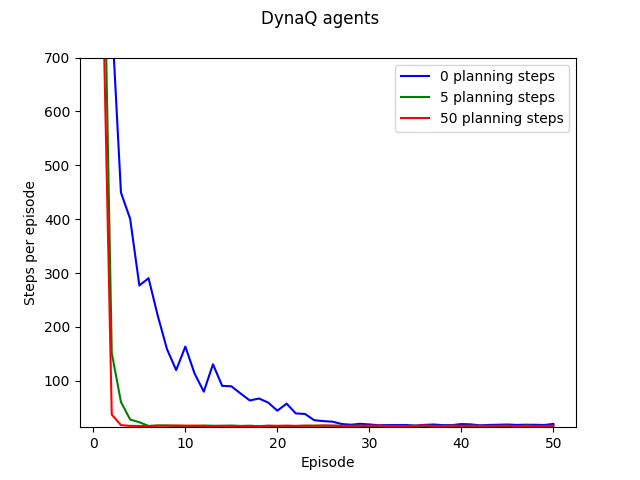
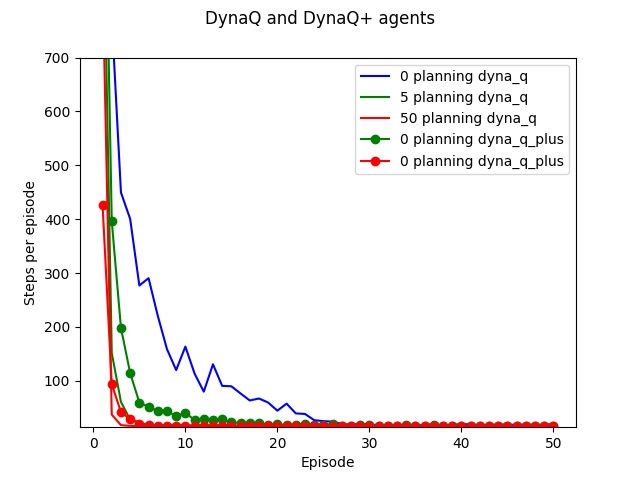
update codes

diff --git a/rl_sutton/chapter08/example8_1.py b/rl_sutton/chapter08/example8_1.py
@@ -1,0 +1,215 @@
+#! /usr/bin/env python3
+
+import numpy as np
+import matplotlib
+matplotlib.use('Agg')
+from matplotlib import pyplot as plt
+
+
+ACTIONS = {0: (1, 0), 1: (-1, 0), 2: (0, 1), 3: (0, -1)}
+
+
+class Environment:
+    def __init__(self, grid, block=1, start=2, goal=3):
+        self.grid = grid
+        self.block = block
+        self.start_pos, self.goal_pos = self.find_terminal(start, goal)
+
+    def get_grid_shape(self):
+        return self.grid.shape
+
+    def find_terminal(self, start, goal):
+        m, n = self.grid.shape
+        start_pos, goal_pos = None, None
+        for i in range(m):
+            for j in range(n):
+                if self.grid[i, j] == start:
+                    start_pos = (i, j)
+                elif self.grid[i, j] == goal:
+                    goal_pos = (i, j)
+        return (start_pos, goal_pos)
+
+    def is_non_state(self, x, y):
+        if self.grid[x, y] == self.block or (x, y) == self.start_pos or self.is_goal(x, y):
+            return True
+        return False
+
+    def is_goal(self, x, y):
+        if x == self.goal_pos[0] and y == self.goal_pos[1]:
+            return True
+        return False
+
+    def sample(self, x, y, a):
+        m, n = self.grid.shape
+        ax, ay = ACTIONS[a]
+        new_x, new_y = x+ax, y+ay
+        if new_x < 0 or new_y < 0 or new_x >= m or new_y >= n or self.grid[new_x, new_y] == self.block:
+            return (x, y, 0)
+        rwd = 1 if self.is_goal(new_x, new_y) else 0
+        return (new_x, new_y, rwd)
+
+
+class Agent:
+    def __init__(self, env):
+        self.env = env
+        self.num_of_actions = len(ACTIONS)
+        self.all_actions = list(range(self.num_of_actions))
+        self.policy = None
+        self.q_table = None
+        self.model = None
+
+    def hash(self, x, y, a):
+        m, n = self.env.get_grid_shape()
+        return n*x + y + m*n*a
+
+    def hash_to_id(self, h):
+        m, n = self.env.get_grid_shape()
+        a = h//(m*n)
+        newh = h%(m*n)
+        x, y = newh//n, newh%n
+        assert h == self.hash(x, y, a)
+        return (x, y, a)
+
+    def initialize_model(self):
+        model = {}
+        m, n = self.env.get_grid_shape()
+        for a in range(self.num_of_actions):
+            for i in range(m):
+                for j in range(n):
+                    if self.env.is_non_state(i, j):
+                        continue
+                    model[self.hash(i, j, a)] = (i, j, 0, 0)
+        return model
+
+    def reset(self, is_model_init=False):
+        m, n = self.env.get_grid_shape()
+        self.policy = np.zeros((m ,n)).astype(int)
+        self.q_table = np.zeros((self.num_of_actions, m, n))
+        self.model = self.initialize_model() if is_model_init else {}
+
+    def ep_greedy(self, x, y, ep):
+        if ep > np.random.rand():
+            return np.random.randint(self.num_of_actions)
+        return self.policy[x, y]
+
+    def update_policy(self, x, y):
+        greedy_a = self.policy[x, y]
+        greedy_q = self.q_table[greedy_a, x, y]
+        np.random.shuffle(self.all_actions)
+        for a in self.all_actions:
+            if self.q_table[a, x, y] >= greedy_q:
+                greedy_q = self.q_table[a, x, y]
+                greedy_a = a
+        self.policy[x, y] = greedy_a
+
+    def update_model(self, h, nx, ny, rwd, time_passed):
+        self.model[h] = (nx, ny, rwd, time_passed)
+
+    def dyna_q_planning(self, planning_steps, gama, alpha):
+        ids = list(self.model.keys())
+        for i in range(planning_steps):
+            h = ids[np.random.randint(len(ids))]
+            x, y, a = self.hash_to_id(h)
+            nx, ny, rwd, _ = self.model[h]
+            nqmax = self.q_table[self.policy[nx, ny], nx, ny]
+            self.q_table[a, x, y] += alpha*(rwd + gama*nqmax - self.q_table[a, x, y])
+            self.update_policy(x, y)
+
+    def dyna_q_plus_planning(self, planning_steps, time_passed, gama, alpha, k):
+        ids = list(self.model.keys())
+        for i in range(planning_steps):
+            h = ids[np.random.randint(len(ids))]
+            x, y, a = self.hash_to_id(h)
+            nx, ny, rwd, time = self.model[h]
+            nqmax = self.q_table[self.policy[nx, ny], nx, ny]
+            # in dyna_q+ exploratory reward is used
+            assert time_passed - time >= 0
+            exploration_rwd = rwd + k*np.sqrt(time_passed - time)
+            G = exploration_rwd + gama*nqmax
+            self.q_table[a, x, y] += alpha*(G - self.q_table[a, x, y])
+            self.update_policy(x, y)    
+
+    # gama < 1 is required to make sure that agent finds shortest path, if gama = 1 there is no insentive for
+    # the agent to find shortest path
+    def planning_learning(self, planning_steps, episodes, gama, alpha, ep, k=0.1, is_dyna_q_plus=False):
+        len_of_episode = []
+        time_passed = 0
+        for e in range(1, episodes+1):
+            episode_time = 0
+            cx, cy = self.env.start_pos
+            while not self.env.is_goal(cx, cy):
+                episode_time += 1; time_passed += 1
+                ca = self.ep_greedy(cx, cy, ep)
+                nx, ny, rwd = self.env.sample(cx, cy, ca)
+                nqmax = self.q_table[self.policy[nx, ny], nx, ny]
+                self.q_table[ca, cx, cy] += alpha*(rwd + gama*nqmax - self.q_table[ca, cx, cy])
+                self.update_policy(cx, cy)
+                self.update_model(self.hash(cx, cy, ca), nx, ny, rwd, time_passed)
+                cx, cy = nx, ny
+                # planning step
+                if is_dyna_q_plus:
+                    self.dyna_q_plus_planning(planning_steps, time_passed, gama, alpha, k)
+                else:
+                    self.dyna_q_planning(planning_steps, gama, alpha)
+            len_of_episode.append(episode_time)
+        return len_of_episode
+
+    def dyna_q(self, planning_steps, episodes, gama=0.95, alpha=0.1, ep=0.1):
+        self.reset()
+        len_of_episode = self.planning_learning(planning_steps, episodes, gama, alpha, ep)
+        return len_of_episode
+
+    def dyna_q_plus(self, planning_steps, episodes, gama=0.95, alpha=0.1, ep=0.1, k=0.0001):
+        self.reset(is_model_init=True)
+        len_of_episode = self.planning_learning(planning_steps, episodes, gama, alpha, ep, k, True)
+        return len_of_episode
+
+
+def length(algo, planning_steps, episodes, runs):
+    length = np.zeros(episodes)
+    for run in range(1, runs+1):
+        np.random.seed(run)
+        length += (algo(planning_steps, episodes) - length) / run
+    return length
+
+
+def main():
+    grid = np.array([[0, 0, 0, 0, 0, 0, 0, 1, 3],
+                     [0, 0, 1, 0, 0, 0, 0, 1, 0],
+                     [2, 0, 1, 0, 0, 0, 0, 1, 0],
+                     [0, 0, 1, 0, 0, 0, 0, 0, 0],
+                     [0, 0, 0, 0, 0, 1, 0, 0, 0],
+                     [0, 0, 0, 0, 0, 0, 0, 0, 0]])
+    env = Environment(grid)
+    agent = Agent(env)
+
+    runs = 30
+
+    len_of_episode_0_dyna_q = length(agent.dyna_q, 0, 50, 30)
+    len_of_episode_5_dyna_q = length(agent.dyna_q, 5, 50, 30)
+    len_of_episode_50_dyna_q = length(agent.dyna_q, 50, 50, 30)
+
+    len_of_episode_5_dyna_q_plus = length(agent.dyna_q_plus, 5, 50, 30)
+    len_of_episode_50_dyna_q_plus = length(agent.dyna_q_plus, 50, 50, 30)
+
+    episodes = list(range(1, 50+1))
+
+    fig = plt.figure()
+    ax = fig.add_subplot(1, 1, 1)
+    ax.set_ylim([14, 700])
+    # dyna_q
+    ax.plot(episodes, len_of_episode_0_dyna_q, 'b-', label="0 planning dyna_q")
+    ax.plot(episodes, len_of_episode_5_dyna_q, 'g-', label="5 planning dyna_q")
+    ax.plot(episodes, len_of_episode_50_dyna_q, 'r-', label="50 planning dyna_q")
+    # dyna_q_plus
+    ax.plot(episodes, len_of_episode_5_dyna_q_plus, 'go-', label="0 planning dyna_q_plus")
+    ax.plot(episodes, len_of_episode_50_dyna_q_plus, 'ro-', label="0 planning dyna_q_plus")
+    fig.suptitle("DynaQ and DynaQ+ agents")
+    plt.xlabel("Episode")
+    plt.ylabel("Steps per episode")
+    plt.legend()
+    plt.savefig('figure8_1.png')
+
+
+if __name__ == '__main__':
+    main()

diff --git a/rl_sutton/chapter08/example8_2.py b/rl_sutton/chapter08/example8_2.py
@@ -1,4 +1,3 @@
-#! /usr/bin/env python3
 
 import numpy as np
 import matplotlib
@@ -10,10 +9,14 @@ ACTIONS = {0: (1, 0), 1: (-1, 0), 2: (0, 1), 3: (0, -1)}
 
 
 class Environment:
-    def __init__(self, grid, block=1, start=2, goal=3):
-        self.grid = grid
+    def __init__(self, grid1, grid2, block=1, start=2, goal=3):
+        self.grid1, self.grid2 = grid1, grid2
+        self.grid = grid1
         self.block = block
         self.start_pos, self.goal_pos = self.find_terminal(start, goal)
+
+    def update_grid(self):
+        self.grid = self.grid2
 
     def get_grid_shape(self):
         return self.grid.shape
@@ -127,16 +130,19 @@ class Agent:
             exploration_rwd = rwd + k*np.sqrt(time_passed - time)
             G = exploration_rwd + gama*nqmax
             self.q_table[a, x, y] += alpha*(G - self.q_table[a, x, y])
-            self.update_policy(x, y)
+            self.update_policy(x, y)    
 
-    def planning_learning(self, planning_steps, episodes, gama, alpha, ep, k=0.1, is_dyna_q_plus=False):
-        len_of_episode = []
+    # gama < 1 is required to make sure that agent finds shortest path, if gama = 1 there is no insentive for
+    # the agent to find shortest path
+    def planning_learning(self, planning_steps, time_frame, gama, alpha, ep, change, k=0.0001, is_dyna_q_plus=False):
         time_passed = 0
-        for e in range(1, episodes+1):
-            episode_time = 0
+        cum_reward = [0]
+        while time_passed < time_frame:
+            if time_passed == change:
+                self.env.update_grid()
             cx, cy = self.env.start_pos
-            while not self.env.is_goal(cx, cy):
-                episode_time += 1; time_passed += 1
+            while (not self.env.is_goal(cx, cy)) and (time_passed < time_frame):
+                time_passed += 1
                 ca = self.ep_greedy(cx, cy, ep)
                 nx, ny, rwd = self.env.sample(cx, cy, ca)
                 nqmax = self.q_table[self.policy[nx, ny], nx, ny]
@@ -149,70 +155,73 @@ class Agent:
                     self.dyna_q_plus_planning(planning_steps, time_passed, gama, alpha, k)
                 else:
                     self.dyna_q_planning(planning_steps, gama, alpha)
-            len_of_episode.append(episode_time)
-        return len_of_episode
+                cum_reward.append(cum_reward[-1] + rwd)
+        return cum_reward
 
-    def dyna_q(self, planning_steps, episodes, gama=0.95, alpha=0.1, ep=0.1):
+    def dyna_q(self, planning_steps, time_frame, change, gama=0.95, alpha=0.7, ep=0.1):
         self.reset()
-        len_of_episode = self.planning_learning(planning_steps, episodes, gama, alpha, ep)
-        return len_of_episode
+        cum_reward = self.planning_learning(planning_steps, time_frame, gama, alpha, ep, change)
+        return cum_reward
 
-    def dyna_q_plus(self, planning_steps, episodes, gama=0.95, alpha=0.1, ep=0.1, k=0.0001):
+    def dyna_q_plus(self, planning_steps, time_frame, change, gama=0.95, alpha=0.7, ep=0.1, k=1e-5):
         self.reset(is_model_init=True)
-        len_of_episode = self.planning_learning(planning_steps, episodes, gama, alpha, ep, k, True)
-        return len_of_episode
+        cum_reward = self.planning_learning(planning_steps, time_frame, gama, alpha, ep, change, k, True)
+        return cum_reward
 
 
-def example8_4():
-    grid = np.array([[0, 0, 0, 0, 0, 0, 0, 1, 3],
-                     [0, 0, 1, 0, 0, 0, 0, 1, 0],
-                     [2, 0, 1, 0, 0, 0, 0, 1, 0],
-                     [0, 0, 1, 0, 0, 0, 0, 0, 0],
-                     [0, 0, 0, 0, 0, 1, 0, 0, 0],
-                     [0, 0, 0, 0, 0, 0, 0, 0, 0]])
-    env = Environment(grid)
-    agent = Agent(env)
-    print(agent.dyna_q_plus(5, 50))
-
-
-def length(agent, planning_steps, episodes, runs):
-    length = np.zeros(episodes)
+def length(algo, time_frame, runs, planning_step):
+    avg = np.zeros(time_frame+1)
+    change = 1000
     for run in range(1, runs+1):
         np.random.seed(run)
-        length += (agent.dyna_q(planning_steps, episodes) - length) / run
-    return length
+        avg += (algo(planning_step, time_frame, change) - avg) / run
+    return avg
 
 
-def example8_1():
-    grid = np.array([[0, 0, 0, 0, 0, 0, 0, 1, 3],
-                     [0, 0, 1, 0, 0, 0, 0, 1, 0],
-                     [2, 0, 1, 0, 0, 0, 0, 1, 0],
-                     [0, 0, 1, 0, 0, 0, 0, 0, 0],
-                     [0, 0, 0, 0, 0, 1, 0, 0, 0],
-                     [0, 0, 0, 0, 0, 0, 0, 0, 0]])
-    env = Environment(grid)
+def main():
+    grid1 = np.array([[0, 0, 0, 0, 0, 0, 0, 0, 3],
+                      [0, 0, 0, 0, 0, 0, 0, 0, 0],
+                      [0, 0, 0, 0, 0, 0, 0, 0, 0],
+                      [1, 1, 1, 1, 1, 1, 1, 1, 0],
+                      [0, 0, 0, 0, 0, 0, 0, 0, 0],
+                      [0, 0, 0, 2, 0, 0, 0, 0, 0]])
+
+    grid2 = np.array([[0, 0, 0, 0, 0, 0, 0, 0, 3],
+                      [0, 0, 0, 0, 0, 0, 0, 0, 0],
+                      [0, 0, 0, 0, 0, 0, 0, 0, 0],
+                      [0, 1, 1, 1, 1, 1, 1, 1, 1],
+                      [0, 0, 0, 0, 0, 0, 0, 0, 0],
+                      [0, 0, 0, 2, 0, 0, 0, 0, 0]])
+
+    env = Environment(grid1, grid2)
     agent = Agent(env)
 
-    runs = 30
-    #print(agent.dyna_q(5, 50))
-    len_of_episode_0_planning = length(agent, 0, 50, 30)
-    len_of_episode_5_planning = length(agent, 5, 50, 30)
-    len_of_episode_50_planning = length(agent, 50, 50, 30)
-    episodes = list(range(1, 50+1))
+    runs = 20
+    time_frame = 3000
+    planning_step = 5
+
+    cum_rwd_dyna_q = length(agent.dyna_q, time_frame, runs, planning_step)
+    cum_rwd_dyna_q_plus = length(agent.dyna_q_plus, time_frame, runs, planning_step)
+
+    time_step = list(range(0, time_frame+1))
 
     fig = plt.figure()
     ax = fig.add_subplot(1, 1, 1)
-    ax.set_ylim([14, 700])
-    ax.plot(episodes, len_of_episode_0_planning, 'b-', label="0 planning steps")
-    ax.plot(episodes, len_of_episode_5_planning, 'g-', label="5 planning steps")
-    ax.plot(episodes, len_of_episode_50_planning, 'r-', label="50 planning steps")
-    fig.suptitle("DynaQ agents")
-    plt.xlabel("Episode")
-    plt.ylabel("Steps per episode")
+    #ax.set_ylim([0, 200])
+
+    # dyna_q
+    ax.plot(time_step, cum_rwd_dyna_q, 'b-', label="dyna_q")
+    # dyna_q_plus
+    ax.plot(time_step, cum_rwd_dyna_q_plus, 'r-', label="dyna_q+")
+
+    fig.suptitle("DynaQ+ vs DynaQ agents k=1e-5, alpha=0.7, ep=0.1, planning_step=5")
+    plt.xlabel("Time Steps")
+    plt.ylabel("Cumulative reward")
     plt.legend()
-    plt.savefig('figure8_1.png')
+    plt.savefig('figure8_2.png')
 
 
 if __name__ == '__main__':
-    example8_4()
+    main()
+
 
